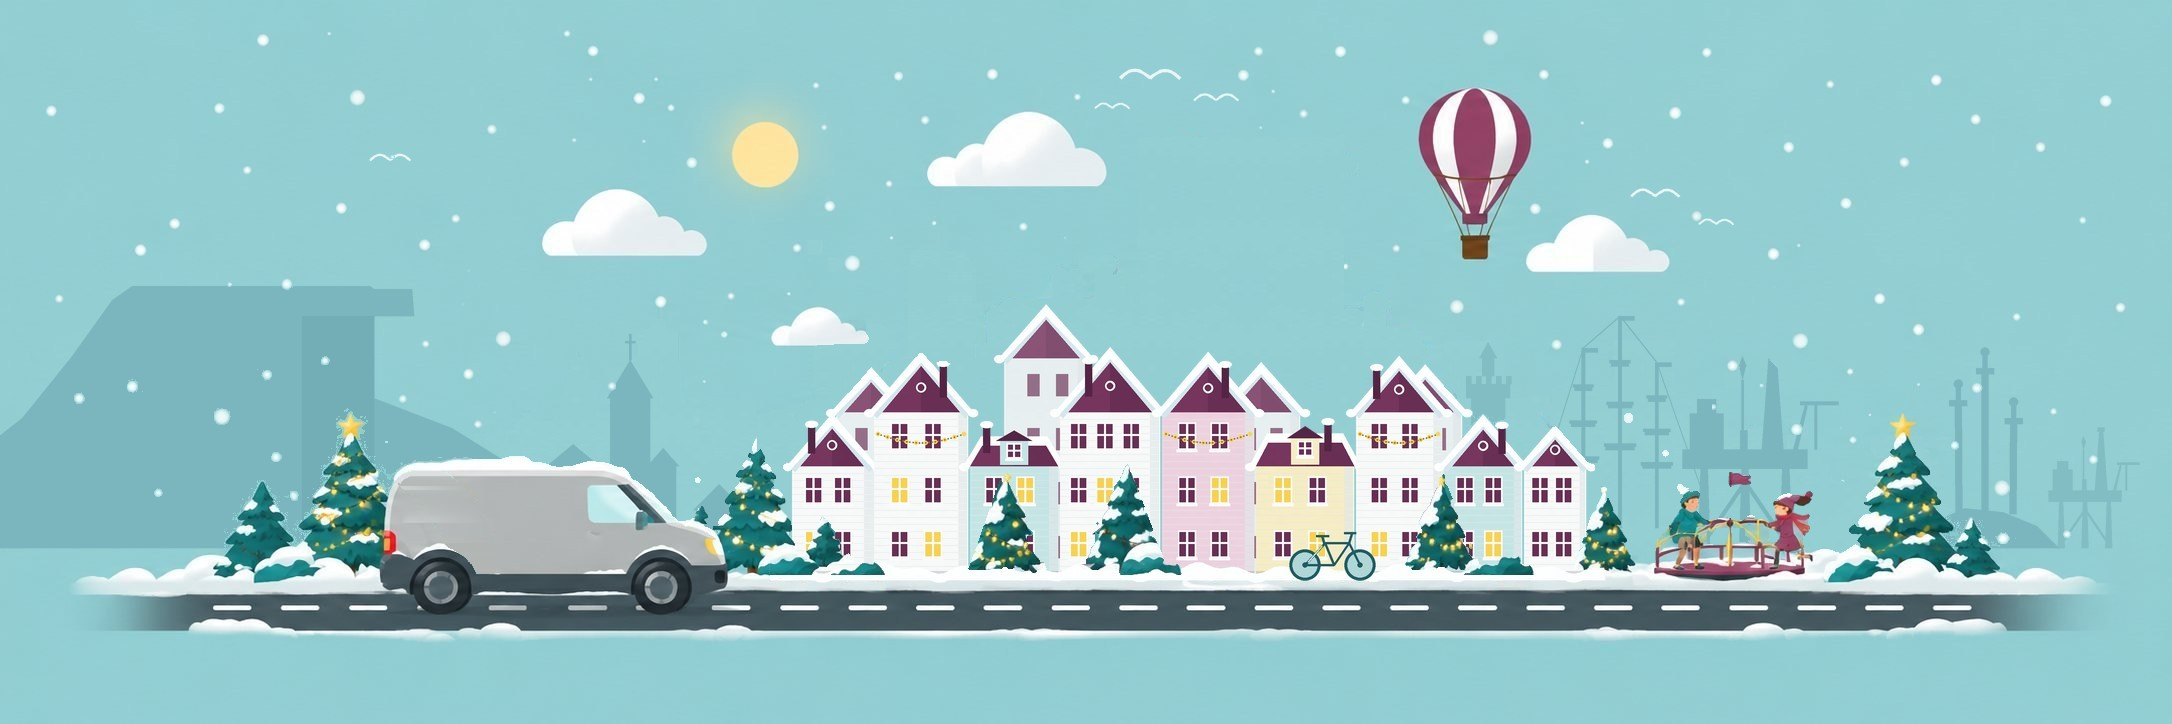
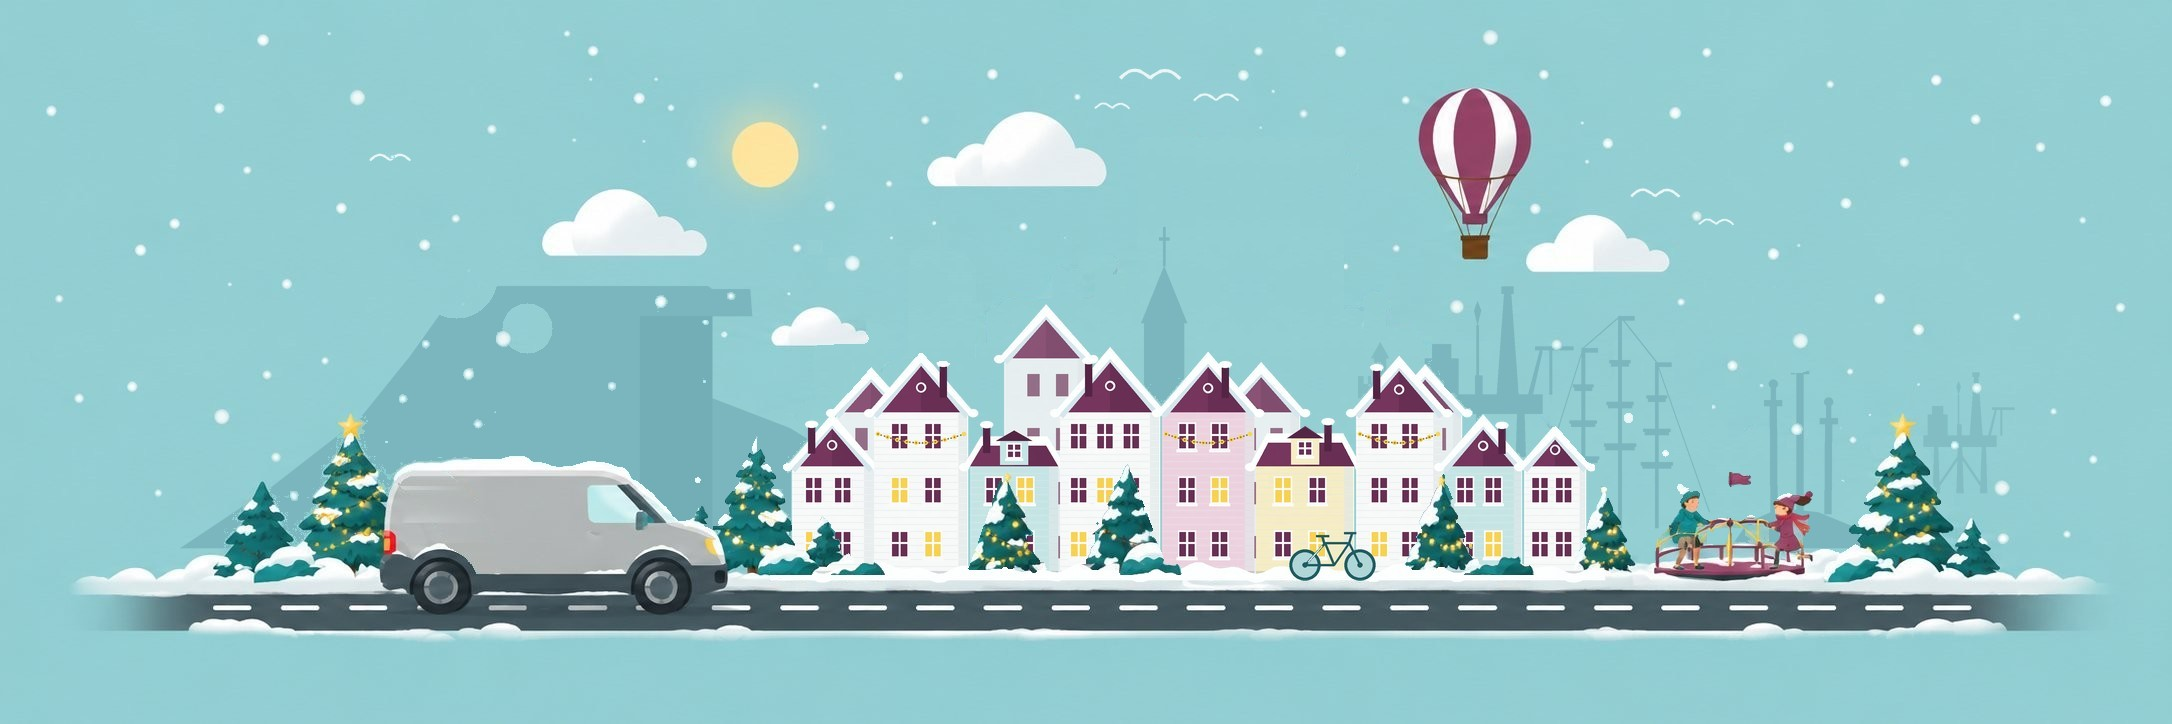
Stavanger: silhuettene samlet bak byen (Marit)
Marit 2026-10-12: «Jeg synes oljeplattform og de andre skyggene er kule og
tenker de kan flyttes nærmere / bak byen.»

- Preikestolen flyttet fra ytterkanten til bak venstre del av husrekka: foten
  skjules av hus og biler, fjellryggen stikker over takene.
- Domkirken flyttet til midt i husrekka og skalert 1,5x, så tårnet når over
  takene i stedet for å forsvinne bak dem.
- Sverd i fjell og plattformene trukket inn fra høyre kant; plattformene hevet
  55 px (ny loft-parameter) så de står lenger bak i landskapet.
- Fjellet og stuputs skyggeside flytter nå sammen via PREIK_X, så de ikke kan
  gli fra hverandre.

Begge versjoner (sommer og vinter) er regenerert med hus.py -> silhuett.py.

diff --git a/verktoy/hero-stavanger-silhuett.py b/verktoy/hero-stavanger-silhuett.py
@@ -52,16 +52,18 @@ def gamle_stavanger(d, s, x0, x1, hoyde=34, tak=24):
         i += 1
 
 
-def domkirken(d, s, x):
-    """Langt skip med bratt tak og et firkantet vesttårn med kort spir."""
-    rect(d, s, x - 70, BUNN - 70, x + 4, BUNN)                       # skipet
-    poly(d, s, [(x - 74, BUNN - 70), (x - 33, BUNN - 104), (x + 8, BUNN - 70)])
-    rect(d, s, x + 4, BUNN - 150, x + 44, BUNN)                      # vesttårnet
-    poly(d, s, [(x + 1, BUNN - 150), (x + 24, BUNN - 188), (x + 47, BUNN - 150)])
-    rect(d, s, x + 23, BUNN - 214, x + 25.5, BUNN - 188)             # spiret
-    rect(d, s, x + 19, BUNN - 207, x + 29.5, BUNN - 205)             # korset
-    rect(d, s, x + 44, BUNN - 82, x + 70, BUNN)                      # sidebygning
-    poly(d, s, [(x + 41, BUNN - 82), (x + 57, BUNN - 100), (x + 73, BUNN - 82)])
+def domkirken(d, s, x, k=1.0):
+    """Langt skip med bratt tak og et firkantet vesttårn med kort spir. k skalerer høyden (tårnet må nå
+    over hustakene for å synes bak byen)."""
+    def H(h): return BUNN - h * k
+    rect(d, s, x - 70, H(70), x + 4, BUNN)                       # skipet
+    poly(d, s, [(x - 74, H(70)), (x - 33, H(104)), (x + 8, H(70))])
+    rect(d, s, x + 4, H(150), x + 44, BUNN)                      # vesttårnet
+    poly(d, s, [(x + 1, H(150)), (x + 24, H(188)), (x + 47, H(150))])
+    rect(d, s, x + 23, H(214), x + 25.5, H(188))                 # spiret
+    rect(d, s, x + 19, H(207), x + 29.5, H(205))                 # korset
+    rect(d, s, x + 44, H(82), x + 70, BUNN)                      # sidebygning
+    poly(d, s, [(x + 41, H(82)), (x + 57, H(100)), (x + 73, H(82))])
 
 
 def valbergtaarnet(d, s, x):
@@ -86,11 +88,12 @@ def sverd_i_fjell(d, s, x):
         sirkel(d, s, x + dx + tilt * 0.4, top - 2, 4.5)
 
 
-def plattform(d, s, x, skala=1.0):
-    """Oljeplattform: tre bein med tverrstag, dekk, bolig, boretårn, kran og fakkel."""
+def plattform(d, s, x, skala=1.0, loft=0):
+    """Oljeplattform: tre bein med tverrstag, dekk, bolig, boretårn, kran og fakkel. loft hever hele plattformen
+    (den står lenger bak i landskapet, over bakken som uansett skjules av forgrunnen)."""
     k = skala
     def X(v): return x + v * k
-    def Y(v): return BUNN - v * k
+    def Y(v): return BUNN - v * k - loft
     for lx in (-34, 0, 34):
         poly(d, s, [(X(lx - 5), Y(0)), (X(lx - 3), Y(66)), (X(lx + 3), Y(66)), (X(lx + 5), Y(0))])
     poly(d, s, [(X(-34), Y(8)), (X(0), Y(58)), (X(0), Y(52)), (X(-34), Y(2))])
@@ -109,6 +112,7 @@ def plattform(d, s, x, skala=1.0):
 
 
 PREIK_TOPP = BUNN - 262
+PREIK_X = 600                   # fjellet og stupets skyggeside må flyttes sammen (én kilde til x)
 
 
 def preikestolen(d, s, x):
@@ -189,9 +193,9 @@ def stavanger(a, vinter):
     himmelaktig = (np.abs(ut - himmel).max(2) < 9)
     for bx, by, br in BOBLER:
         himmelaktig &= (xx - bx) ** 2 + (yy - by) ** 2 > (br + 6) ** 2
-    langt = lag(lambda d, s: (gamle_stavanger(d, s, 486, 560, 30, 22), valbergtaarnet(d, s, 1488), plattform(d, s, 2085, 0.7)))
-    naer = lag(lambda d, s: (domkirken(d, s, 606), preikestolen(d, s, 262), gamle_stavanger(d, s, 696, 770, 38, 26), sverd_i_fjell(d, s, 1985), plattform(d, s, 1745, 1.2), skip(d, s, 1620, 0.8)))
-    skygge = lag(lambda d, s: preikestolen_skygge(d, s, 262))
+    langt = lag(lambda d, s: (gamle_stavanger(d, s, 640, 714, 30, 22), valbergtaarnet(d, s, 1380), plattform(d, s, 1960, 0.7, 55)))
+    naer = lag(lambda d, s: (domkirken(d, s, 1140, 1.5), preikestolen(d, s, PREIK_X), gamle_stavanger(d, s, 1170, 1244, 38, 26), sverd_i_fjell(d, s, 1800), plattform(d, s, 1480, 1.2, 55), skip(d, s, 1620, 0.8)))
+    skygge = lag(lambda d, s: preikestolen_skygge(d, s, PREIK_X))
     for alfa, styrke in ((langt, 1.4), (naer, 2.0), (skygge, 2.7)):
         farge = himmel - delta * styrke
         m = (alfa * himmelaktig)[..., None]
